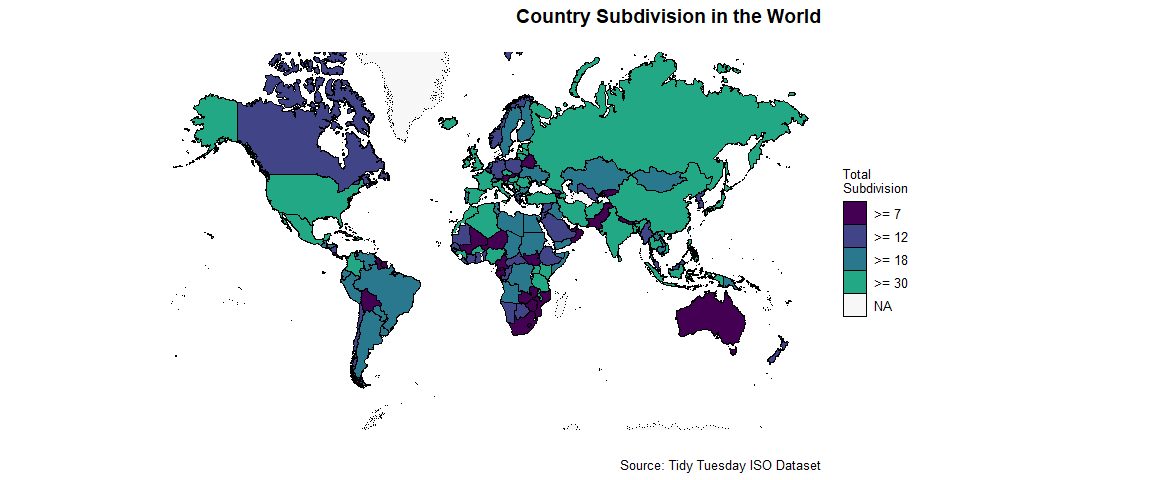
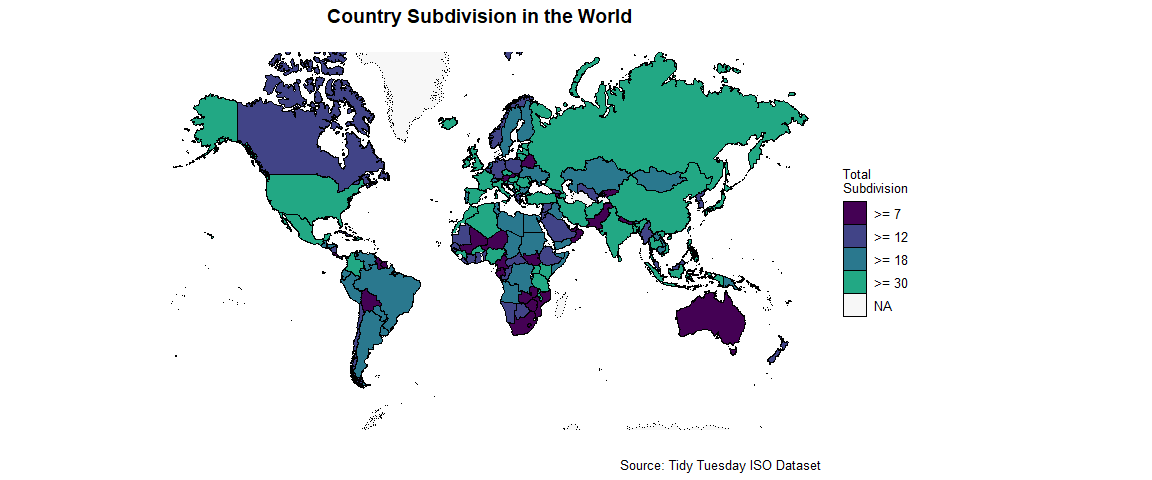
move the title position

Changed region(s): [[0.2812, 0.0, 0.7188, 0.0625]]

diff --git a/tidytuesday/tidytuesday_2_iso/script/week2_ISO.md b/tidytuesday/tidytuesday_2_iso/script/week2_ISO.md
@@ -91,7 +91,7 @@ quick_map(all_countries,       #create map, using all_countries data
        fill = "Total                                       
 Subdivision") +
   theme(plot.title = element_text(size = 14,                #set the font size of the title
-                                  hjust = 1,              #set the position of title
+                                  hjust = 0.5,                #set the position of title
                                   face = "bold",            #set title into bold
                                   margin = margin(b = 20)), #set margin between title and map
         plot.caption = element_text(size = 10)) +   #add caption, set size
